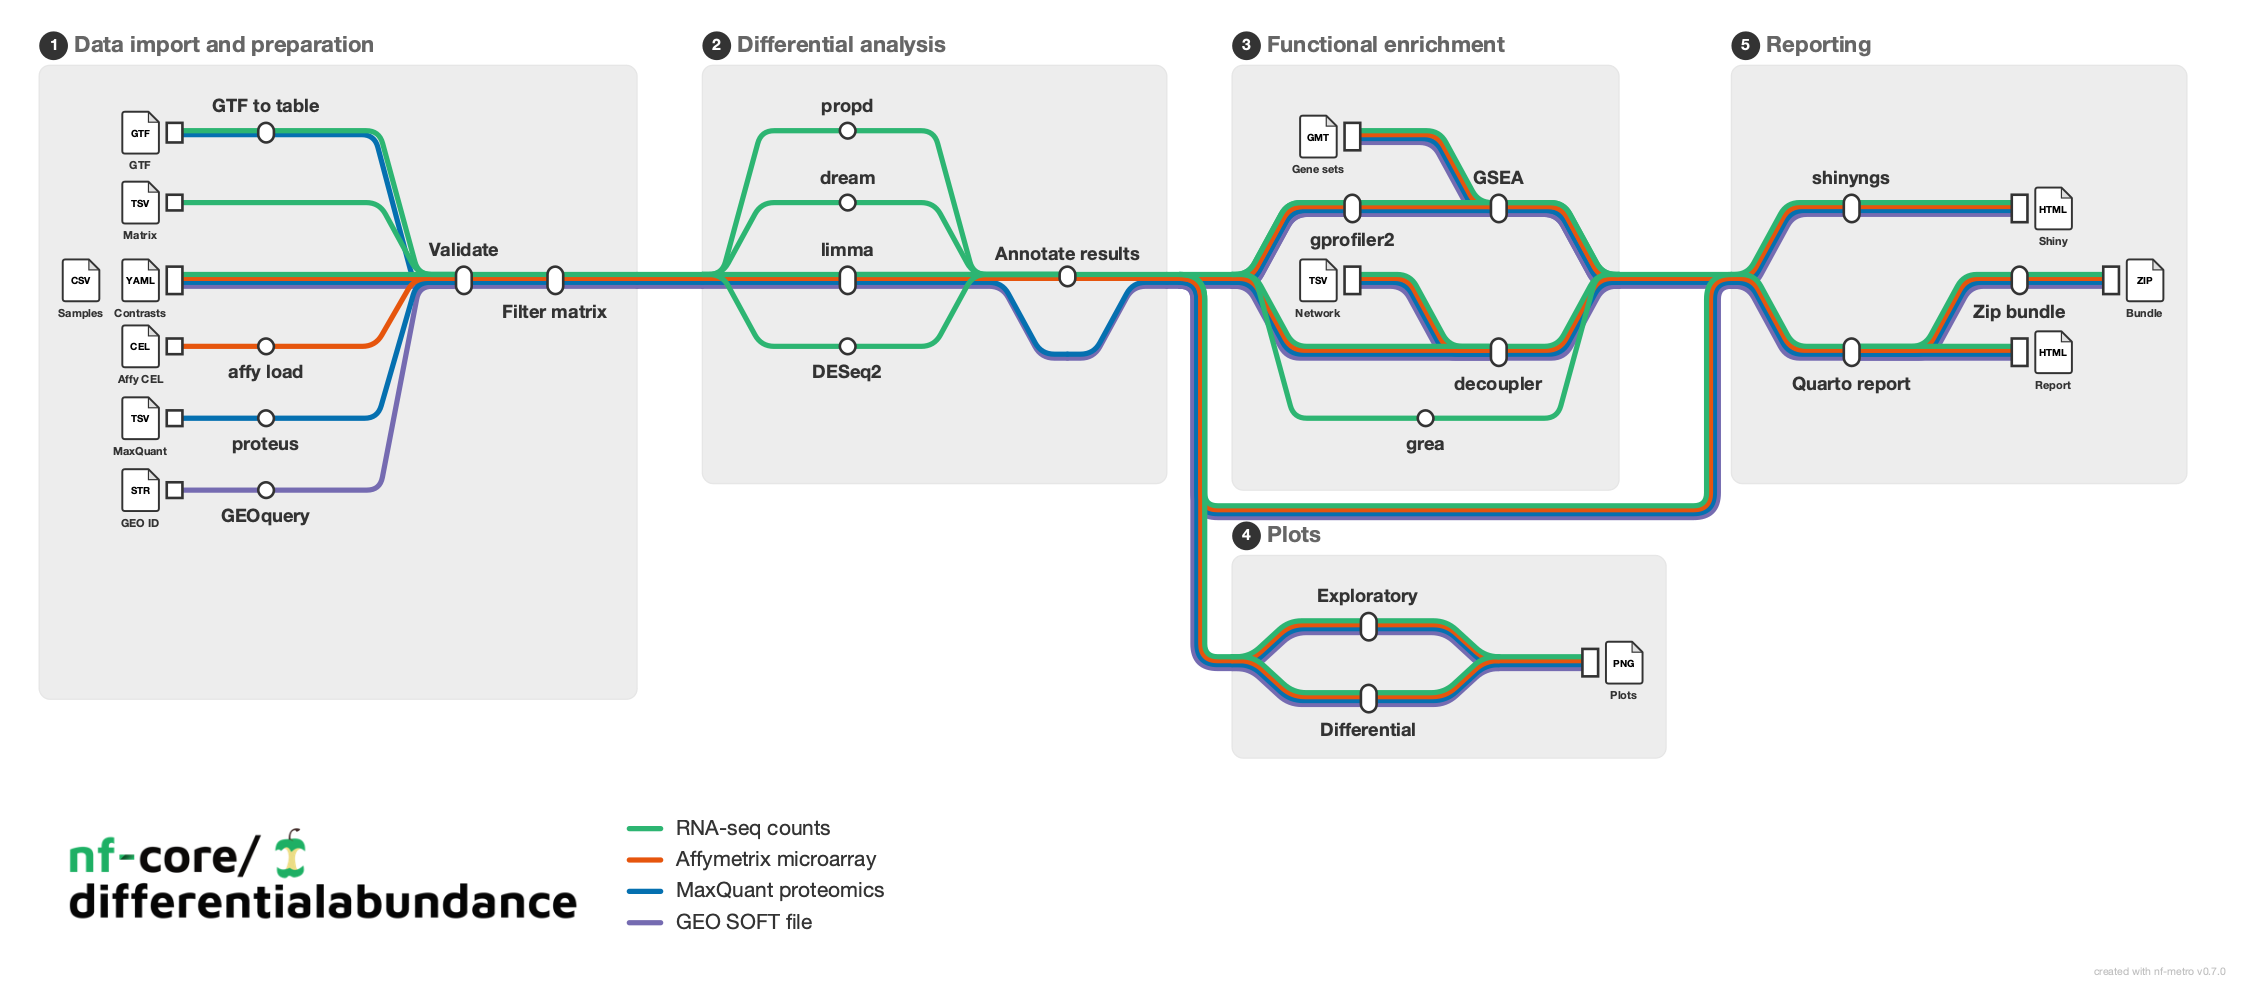
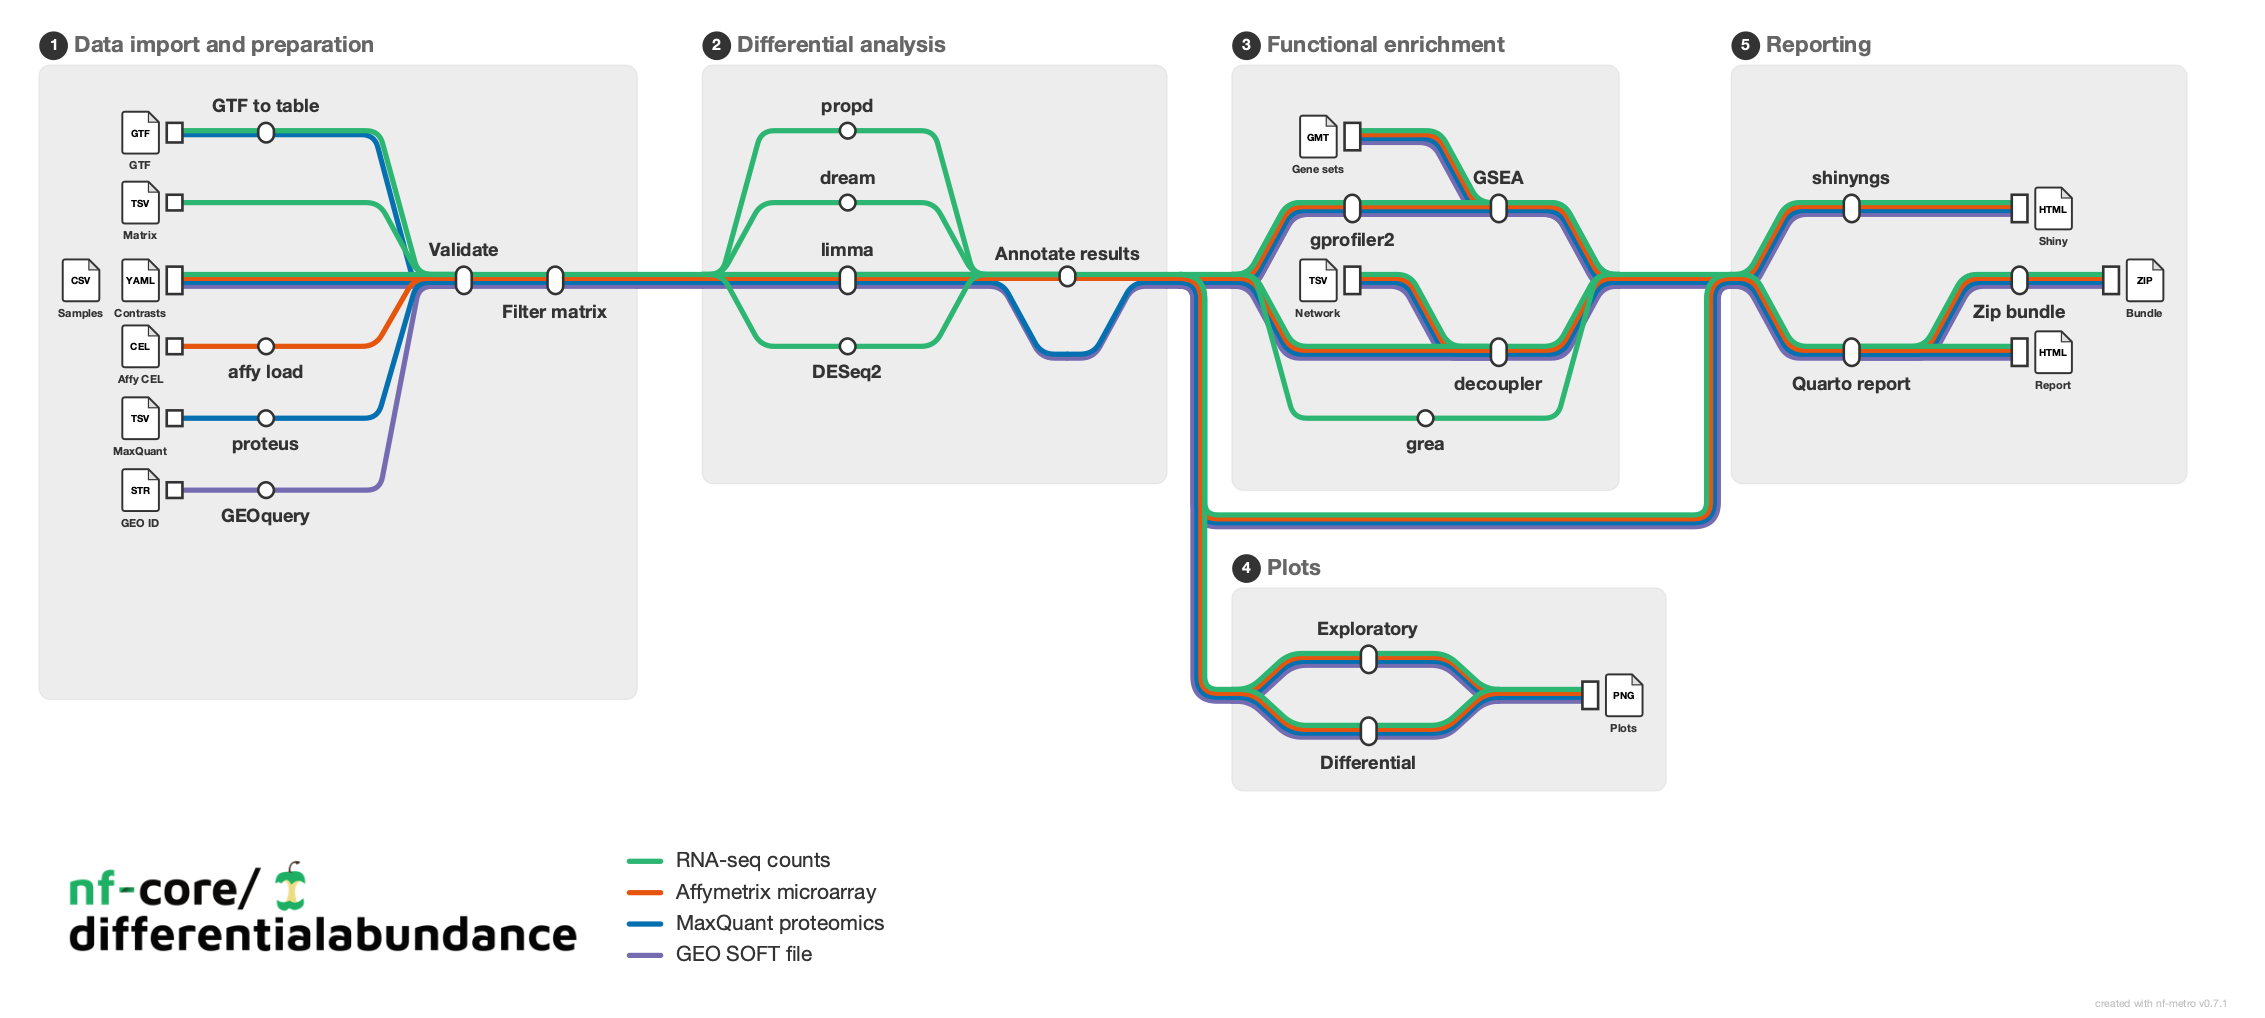
docs(metro): bump to nf-metro 0.7.1 and re-render
Picks up the bypass row-gap fix in nf-metro 0.7.1 and re-renders the
static SVG/PNG and animated SVG. Dev doc pin bumped to >=0.7.1.
Render parameters unchanged.

diff --git a/docs/dev/metro_map.md b/docs/dev/metro_map.md
@@ -3,7 +3,7 @@
 The pipeline overview metro map is generated from `assets/metro_map.mmd` using [nf-metro](https://github.com/pinin4fjords/nf-metro). If you add or rename pipeline steps, update the `.mmd` source and regenerate the images:
 
 ```bash
-pip install 'nf-metro>=0.7.0' cairosvg
+pip install 'nf-metro>=0.7.1' cairosvg
 
 # Static SVG + PNG
 nf-metro render assets/metro_map.mmd \